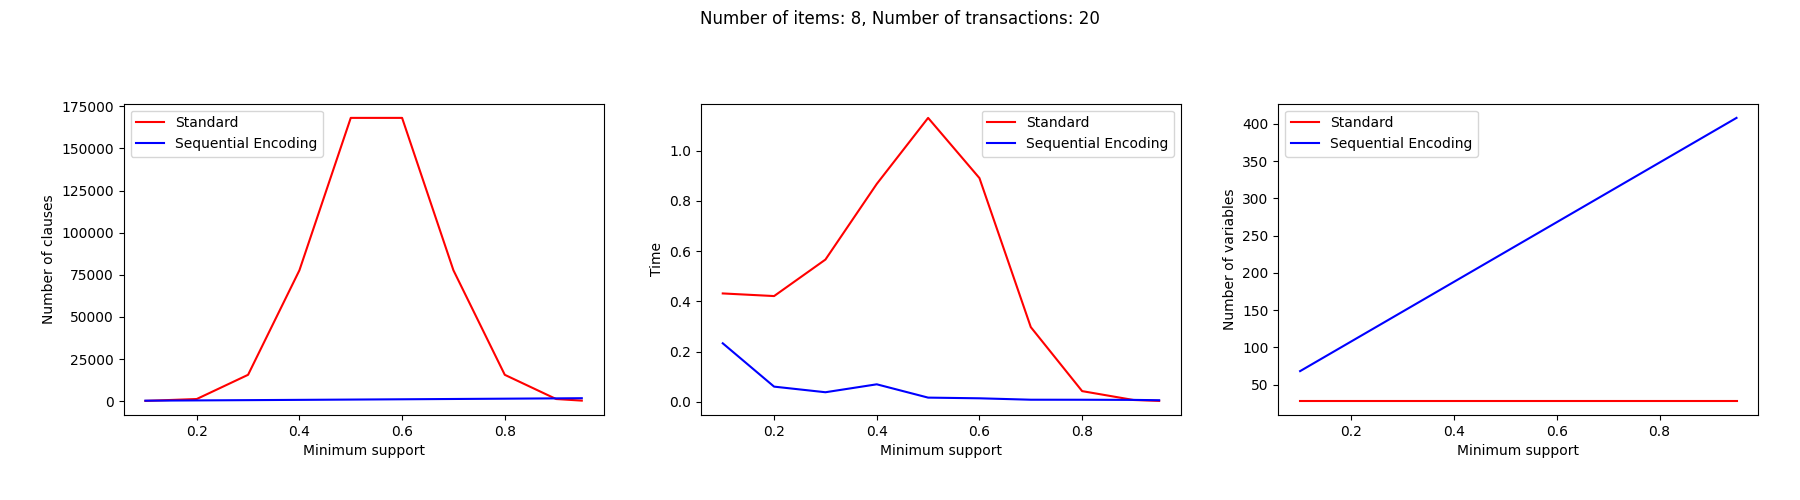
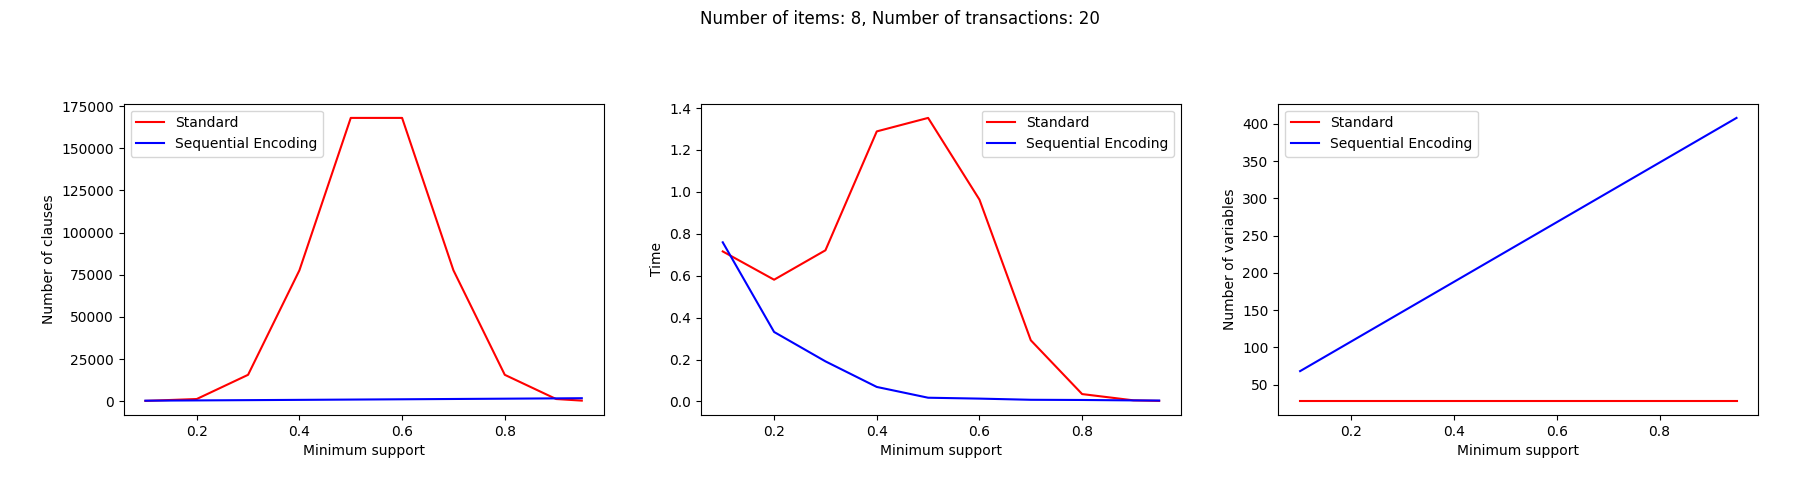
feat: update benchmark

diff --git a/benchmark.py b/benchmark.py
@@ -40,10 +40,8 @@ def benchmark():
     # generate input
     inputs = []
     n_items = 8
-    for n_transactions in [20, 22, 25, 28, 30]:
+    for n_transactions in [20, 22, 25, 28]:
         for min_support in [0.1, 0.2, 0.3 ,0.4, 0.5, 0.6, 0.7, 0.8, 0.9, 0.95]:
-            if n_transactions > 22:
-                continue
             path = f'./input/{n_items}_items_{n_transactions}_trans.txt'
             h.generate_input(n_items, n_transactions, path)
             inputs.append((n_transactions, n_items, min_support, path))
@@ -58,8 +56,8 @@ def benchmark():
             "min_support": min_support
         }
 
-        if h.get_c_k_n(n_transactions - int(n_transactions*min_support) + 1, n_transactions) > 8000000:
-            continue
+        # if h.get_c_k_n(n_transactions - int(n_transactions*min_support) + 1, n_transactions) > 8000000:
+        #     continue
         
         # standard
         n_solutions, n_vars, n_clauses, elapsed_time = m.process(

diff --git a/main.py b/main.py
@@ -14,7 +14,7 @@ def process(input_raw_data: str = "./input/converted_raw_data.txt",
     prefix_raw_output: str = "raw_",
     merged_name: str = "merged_equation.txt",
     use_se: bool = False,
-    time_out: int = 900,
+    time_out: int = 9000,
     find_all: bool = False):
 
     #clear old result
